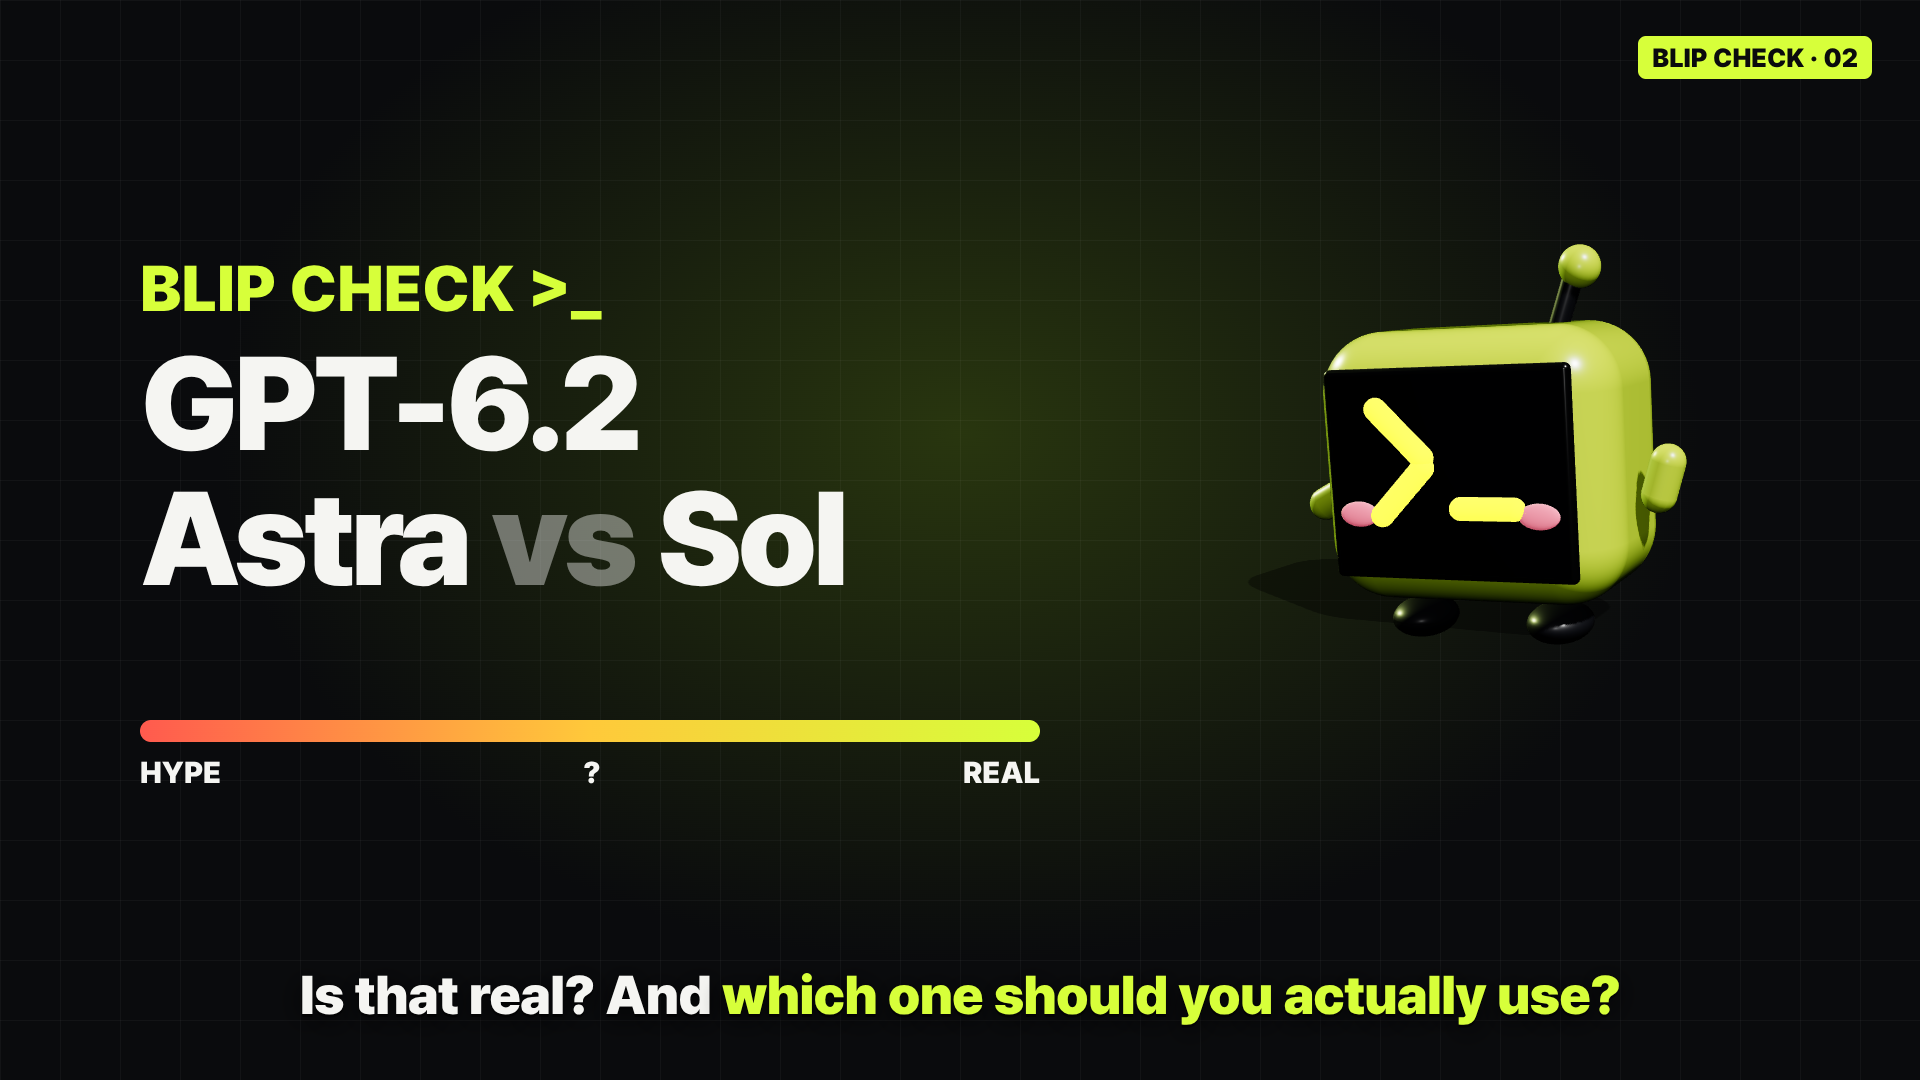
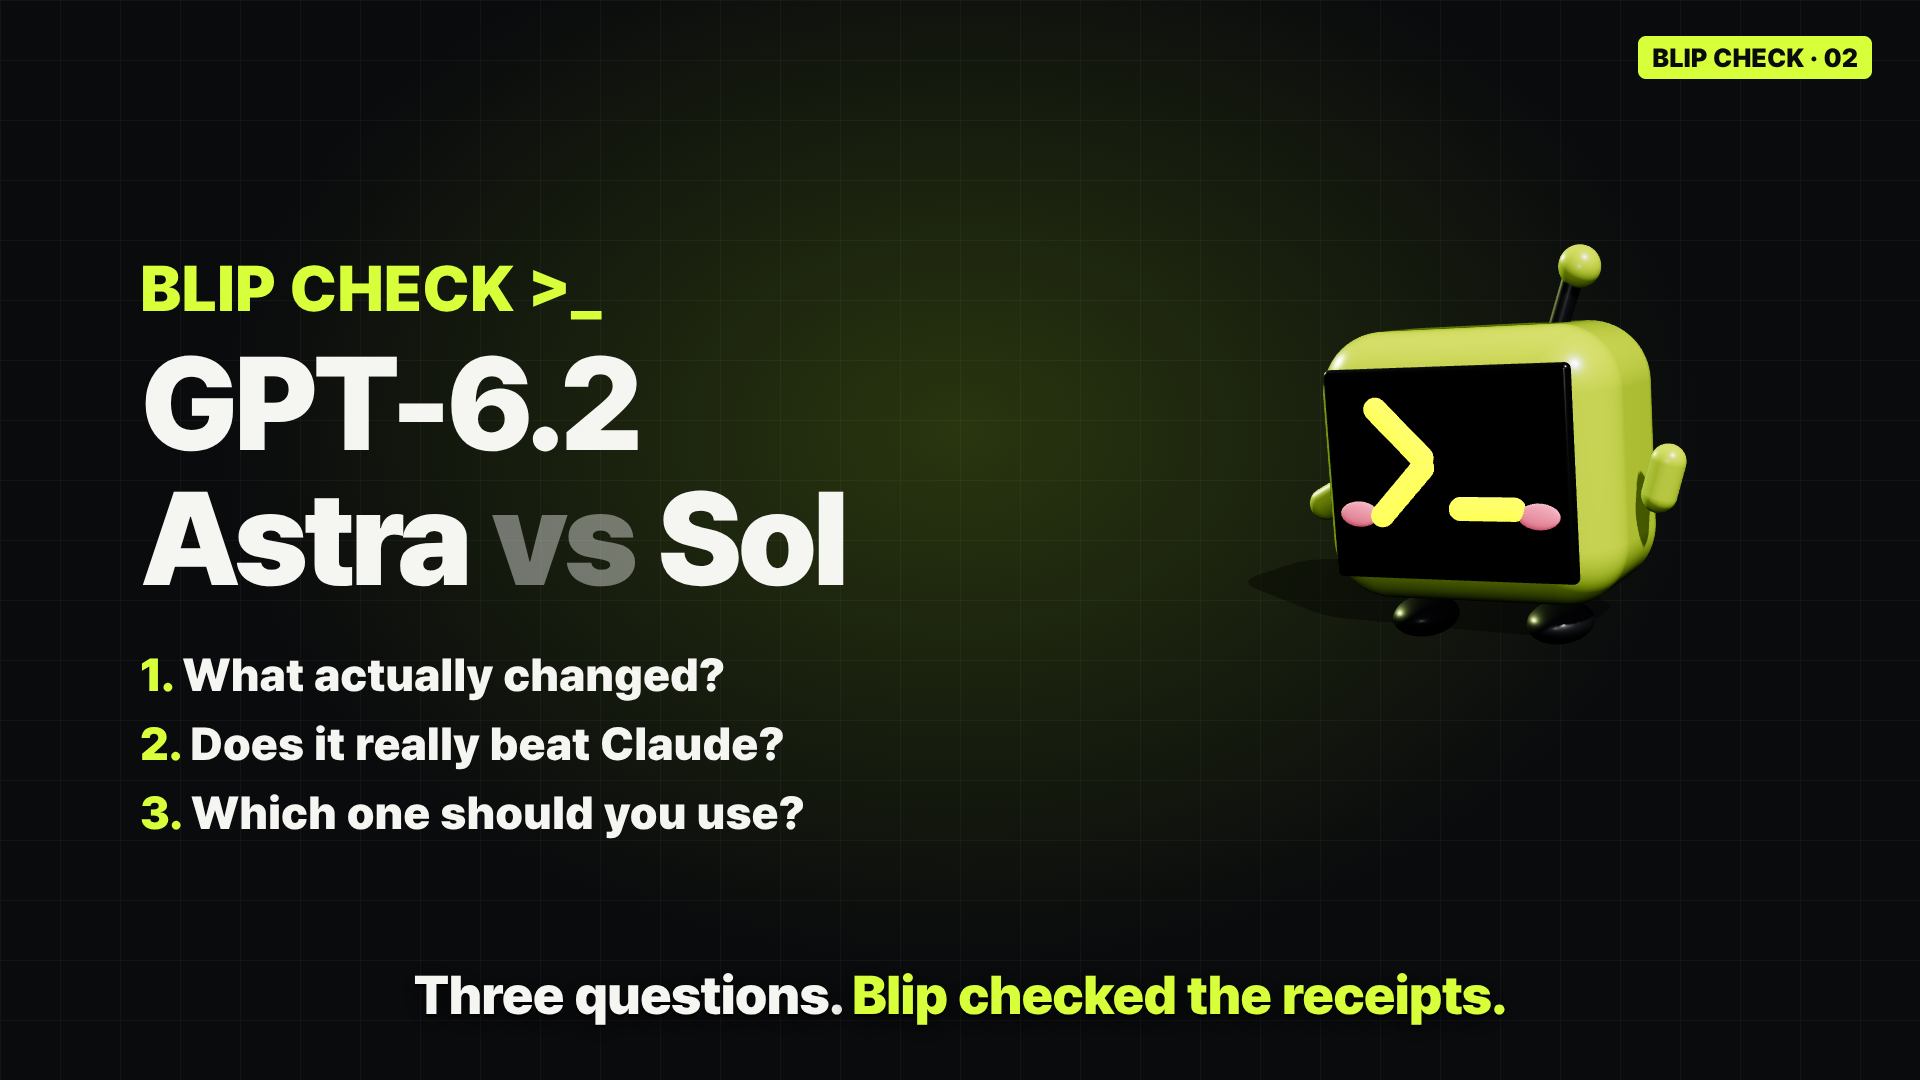
bc01: English script (~4 min), storyboard v2 (3 questions, benchmark explainer, 15% note); Blip Check rules in shorts-script skill
Claude-Session: https://claude.ai/code/session_01YBPD5mzgrSyTFpjop22pXH

Changed region(s): [[0.0625, 0.6111, 0.5625, 0.7944], [0.1562, 0.8861, 0.8438, 0.9472]]

diff --git a/video/src/bc01/Board.tsx b/video/src/bc01/Board.tsx
@@ -175,15 +175,13 @@ const F2 = () => (
         GPT-6.2<br />Astra <span style={{ color: "rgba(255,255,255,0.4)" }}>vs</span> Sol
       </div>
     </div>
-    {/* hype meter teaser */}
-    <div style={{ position: "absolute", left: 140, top: 720, width: 900 }}>
-      <div style={{ height: 22, borderRadius: 11, background: "linear-gradient(90deg,#FF5A4E,#FFC93A,#D7FF3A)" }} />
-      <div style={{ display: "flex", justifyContent: "space-between", fontFamily: "Pretendard", fontWeight: 900, fontSize: 30, color: INK, marginTop: 12 }}>
-        <span>HYPE</span><span>?</span><span>REAL</span>
-      </div>
+    <div style={{ position: "absolute", left: 140, top: 640, fontFamily: "Pretendard", fontWeight: 900, fontSize: 46, color: INK, lineHeight: 1.5 }}>
+      {["What actually changed?", "Does it really beat Claude?", "Which one should you use?"].map((q, i) => (
+        <div key={q}><span style={{ color: LIME }}>{i + 1}.</span> {q}</div>
+      ))}
     </div>
     <Blip left={1160} top={180} size={680} pose={{ face: "prompt", wave: 1.4, rotY: -0.4 }} />
-    <Cap>Is that real? And <K>which one should you actually use?</K></Cap>
+    <Cap>Three questions. <K>Blip checked the receipts.</K></Cap>
   </>
 );
 
@@ -259,6 +257,7 @@ const F8 = () => (
       <div>Sol <span style={{ color: LIME }}>$1.01</span></div>
       <div>Astra <span style={{ color: LIME }}>$4.00</span></div>
       <div>Fable 5.2 <span style={{ color: "#FF8A7A" }}>$26.54</span></div>
+      <div style={{ fontSize: 40, color: "rgba(255,255,255,0.7)", marginTop: 30, lineHeight: 1.3 }}>Astra ≈ <span style={{ color: LIME }}>15%</span> of Claude here.<br />Not 5%. Still way cheaper.</div>
     </div>
     <Cap>But per task, it's <K>way cheaper.</K> That part is real.</Cap>
   </>
@@ -303,7 +302,32 @@ const F10 = () => (
   </>
 );
 
-const FRAMES = [F1, F2, F3, F4, F5, F6, F7, F8, F9, F10];
+const Card: React.FC<{ left: number; top: number; rot: number; grade: string; label: string; hide?: boolean }> = ({ left, top, rot, grade, label, hide }) => (
+  <div style={{ position: "absolute", left, top, width: 300, height: 380, rotate: `${rot}deg`, background: "#F3F1EA", borderRadius: 16, boxShadow: "0 20px 50px rgba(0,0,0,0.5)", padding: 28, opacity: hide ? 0.28 : 1 }}>
+    <div style={{ fontFamily: "Pretendard", fontWeight: 800, fontSize: 24, color: "#555" }}>TEST</div>
+    <div style={{ fontFamily: "Pretendard", fontWeight: 900, fontSize: 30, color: "#111", marginTop: 6, lineHeight: 1.2 }}>{label}</div>
+    <div style={{ fontFamily: "Pretendard", fontWeight: 900, fontSize: 150, color: grade === "A" ? "#2E9E3E" : "#C0392B", marginTop: 30 }}>{grade}</div>
+  </div>
+);
+
+const FB = () => (
+  <>
+    <div style={{ position: "absolute", left: 140, top: 140, fontFamily: "Pretendard", fontWeight: 900, fontSize: 60, color: INK }}>
+      Benchmark = <span style={{ color: LIME }}>a test.</span>
+    </div>
+    <div style={{ position: "absolute", left: 140, top: 230, fontFamily: "Pretendard", fontWeight: 700, fontSize: 34, color: "rgba(255,255,255,0.65)" }}>
+      Hundreds of tests. Each company picks which ones go in the launch post.
+    </div>
+    <Card left={180} top={380} rot={-6} grade="C" label="Test #41" hide />
+    <Card left={420} top={360} rot={3} grade="A" label={"Agents' Last Exam"} />
+    <Card left={660} top={390} rot={8} grade="B" label="Test #87" hide />
+    <Stamp text="SHOWN" left={430} top={700} rot={-5} size={54} />
+    <Blip left={1180} top={300} size={560} pose={{ face: "meh", rotY: -0.5 }} />
+    <Cap>Like bringing home only the <K>report card with the A.</K></Cap>
+  </>
+);
+
+const FRAMES = [F1, F2, F3, F4, F5, F6, FB, F7, F8, F9, F10];
 
 export const Bc01Board: React.FC<{ frame: number }> = ({ frame }) => {
   useFonts();

diff --git a/shorts/bc01-gpt62-astra-vs-sol/script.md b/shorts/bc01-gpt62-astra-vs-sol/script.md
@@ -1,0 +1,82 @@
+# Blip Check #1: GPT-6.2 Astra vs Sol (16:9 long-form, ~4 min)
+
+Voice: Andrew (en-US-AndrewMultilingualNeural), ~205 wpm (Fireship measured ~209).
+Facts only from: SiliconANGLE (Nov 17 2026), OpenAI API pricing page, Artificial Analysis (model page, captured Nov 18 2026).
+Jokes are marked (J); about one every 2–3 sentences.
+
+## 1. Hook (0:00)
+OpenAI just dropped two new models, and the headline claim is wild: beats Claude, at five percent of the cost.
+Five percent. That's not a discount. That's a clearance sale. (J)
+So Blip checked the receipts.
+
+## 2. Promise: three questions (0:12)
+Three questions. What actually changed? Does it really beat Claude? And which one should you use, starting today?
+
+## 3. What dropped (0:20)
+On November seventeenth, OpenAI released GPT-6.2 Astra and GPT-6.2 Sol.
+Astra is the big one, built for complex professional work.
+Sol is what OpenAI calls its go-to model for everyday work.
+If you're keeping track, OpenAI now has Astra, Sol, Terra and Luna. That's not a model lineup. That's a solar system. (J)
+Both are live in ChatGPT Work and Codex, for Plus, Pro, Enterprise and Edu.
+On Enterprise and Edu, your workspace admin has to switch them on first. So if you don't see them, go bother your IT person. Nicely. (J)
+Astra also arrives less than two months after OpenAI called off GPT-6.1 Astra, because testing found it didn't always stay within scope and authorization.
+In other words, it didn't stay in its lane. Blip would never. Blip asks first. (J)
+
+## 4. Astra's pitch (1:05)
+Astra's pitch is office work. OpenAI says it was trained to make slides, spreadsheets and documents that follow professional conventions.
+It can even match a slide template from a file or a screenshot, down to the exact font size.
+Finally, an AI that cares about fonts as much as your manager does. (J)
+One early tester, an accounting startup called Basis, says its average time on long accounting work fell by half.
+
+## 5. Price (1:30)
+Now the price. On OpenAI's pricing page, Astra costs eight dollars per million input tokens, and forty per million output.
+Sol costs two and ten.
+So per token, Astra is four times the price.
+To be fair, that's twenty percent cheaper than the Astra before it. Expensive, but on sale. (J)
+
+## 6. The quiet part (1:50)
+And here's the part that got less spotlight.
+On a coding benchmark called FrontierCode 2.0, OpenAI says Sol came within half a point of Astra, at about one fifth of the cost.
+You will not feel half a point. Your wallet will feel five times. (J)
+OpenAI also says Sol lets you finish more tasks on the same paid plan than the last Sol did.
+
+## 7. Concept: what a benchmark is (2:10)
+So, does Astra really beat Claude? Quick detour. Thirty seconds on benchmarks.
+A benchmark is just a test. Same questions for every model, then you compare scores.
+The catch: there are hundreds of tests, and every company picks which ones go in the launch post.
+It's like bringing home only the report card with the A on it. Not lying. Just curating. (J)
+OpenAI's Claude claim comes from one test, Agents' Last Exam, which measures multistep professional work.
+On that test, OpenAI says Astra finished five and a half points ahead of Claude Fable 5.2, at five percent of the cost.
+To check it, you want an independent scorekeeper. Artificial Analysis runs a whole bundle of tests and publishes the results.
+
+## 8. Independent check (2:50)
+On its Intelligence Index, at max settings, Claude Fable 5.2 scores sixty-five.
+GPT-6.2 Astra scores sixty-two. Sol scores fifty-seven.
+So overall, Claude is still on top. Astra wins the test OpenAI picked, not the whole report card.
+Now look at cost per task on the same index.
+Sol: about a dollar. Astra: four dollars. Fable 5.2: twenty-six fifty.
+So here, Astra costs about fifteen percent of Claude. Not five. But still a lot cheaper. That part is real.
+Artificial Analysis also flags Astra as a bit verbose. It likes to talk. Blip respects that. (J)
+
+## 9. Which one should you use (3:30)
+So which one should you use?
+Start with Sol. Chat, quick answers, everyday coding, drafts and emails. It's cheaper, and on coding it's basically tied.
+Switch to Astra when the output is the job: a slide deck, a spreadsheet, a legal or finance document that has to look like a pro made it.
+And if Claude already does that work for you, this launch alone isn't a reason to switch. It's a reason to test both on your own tasks.
+
+## 10. Verdict (4:00)
+Blip's verdict on "beats Claude at five percent of the cost":
+Cheaper? Real. Beats Claude? On one test OpenAI chose, not on the independent index.
+Half true.
+Use Sol, keep your wallet, and save Astra for the deck your boss will actually read. (J)
+
+## 11. Outro (4:15)
+Got a question, or a model you want Blip to check next? Drop it in the comments.
+Follow Blip, and see you at the next check.
+
+---
+
+### Notes
+- Avoided Fireship signature lines ("In today's video…", "you're watching the Code Report", "This has been…").
+- "About fifteen percent" = $4.00 / $26.54 per task on the Artificial Analysis Intelligence Index (max settings).
+- Optional later: a REAL RUN segment (same prompt in Sol and Astra) after section 8, if a ChatGPT screen recording is available.
